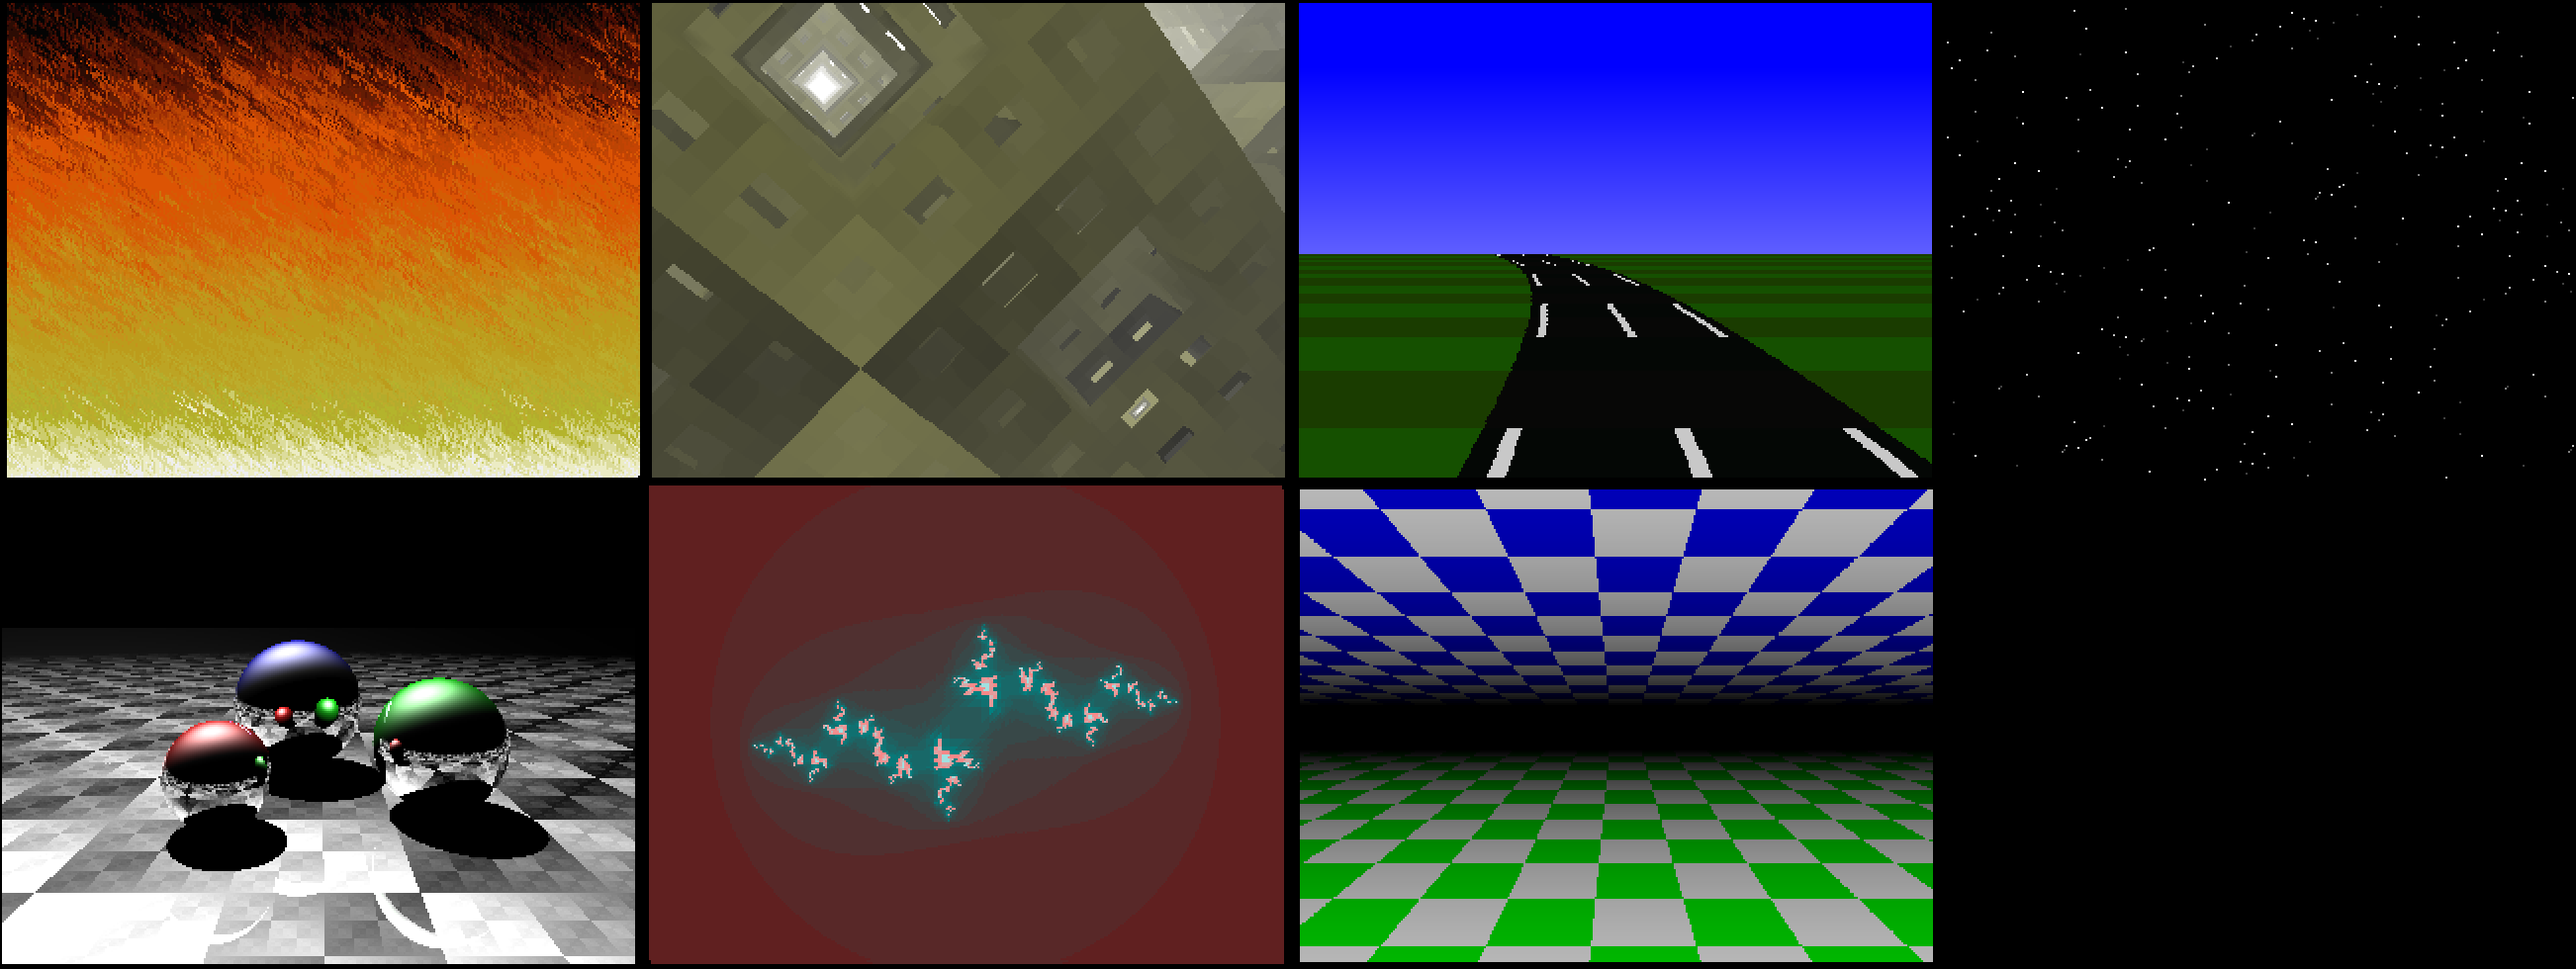
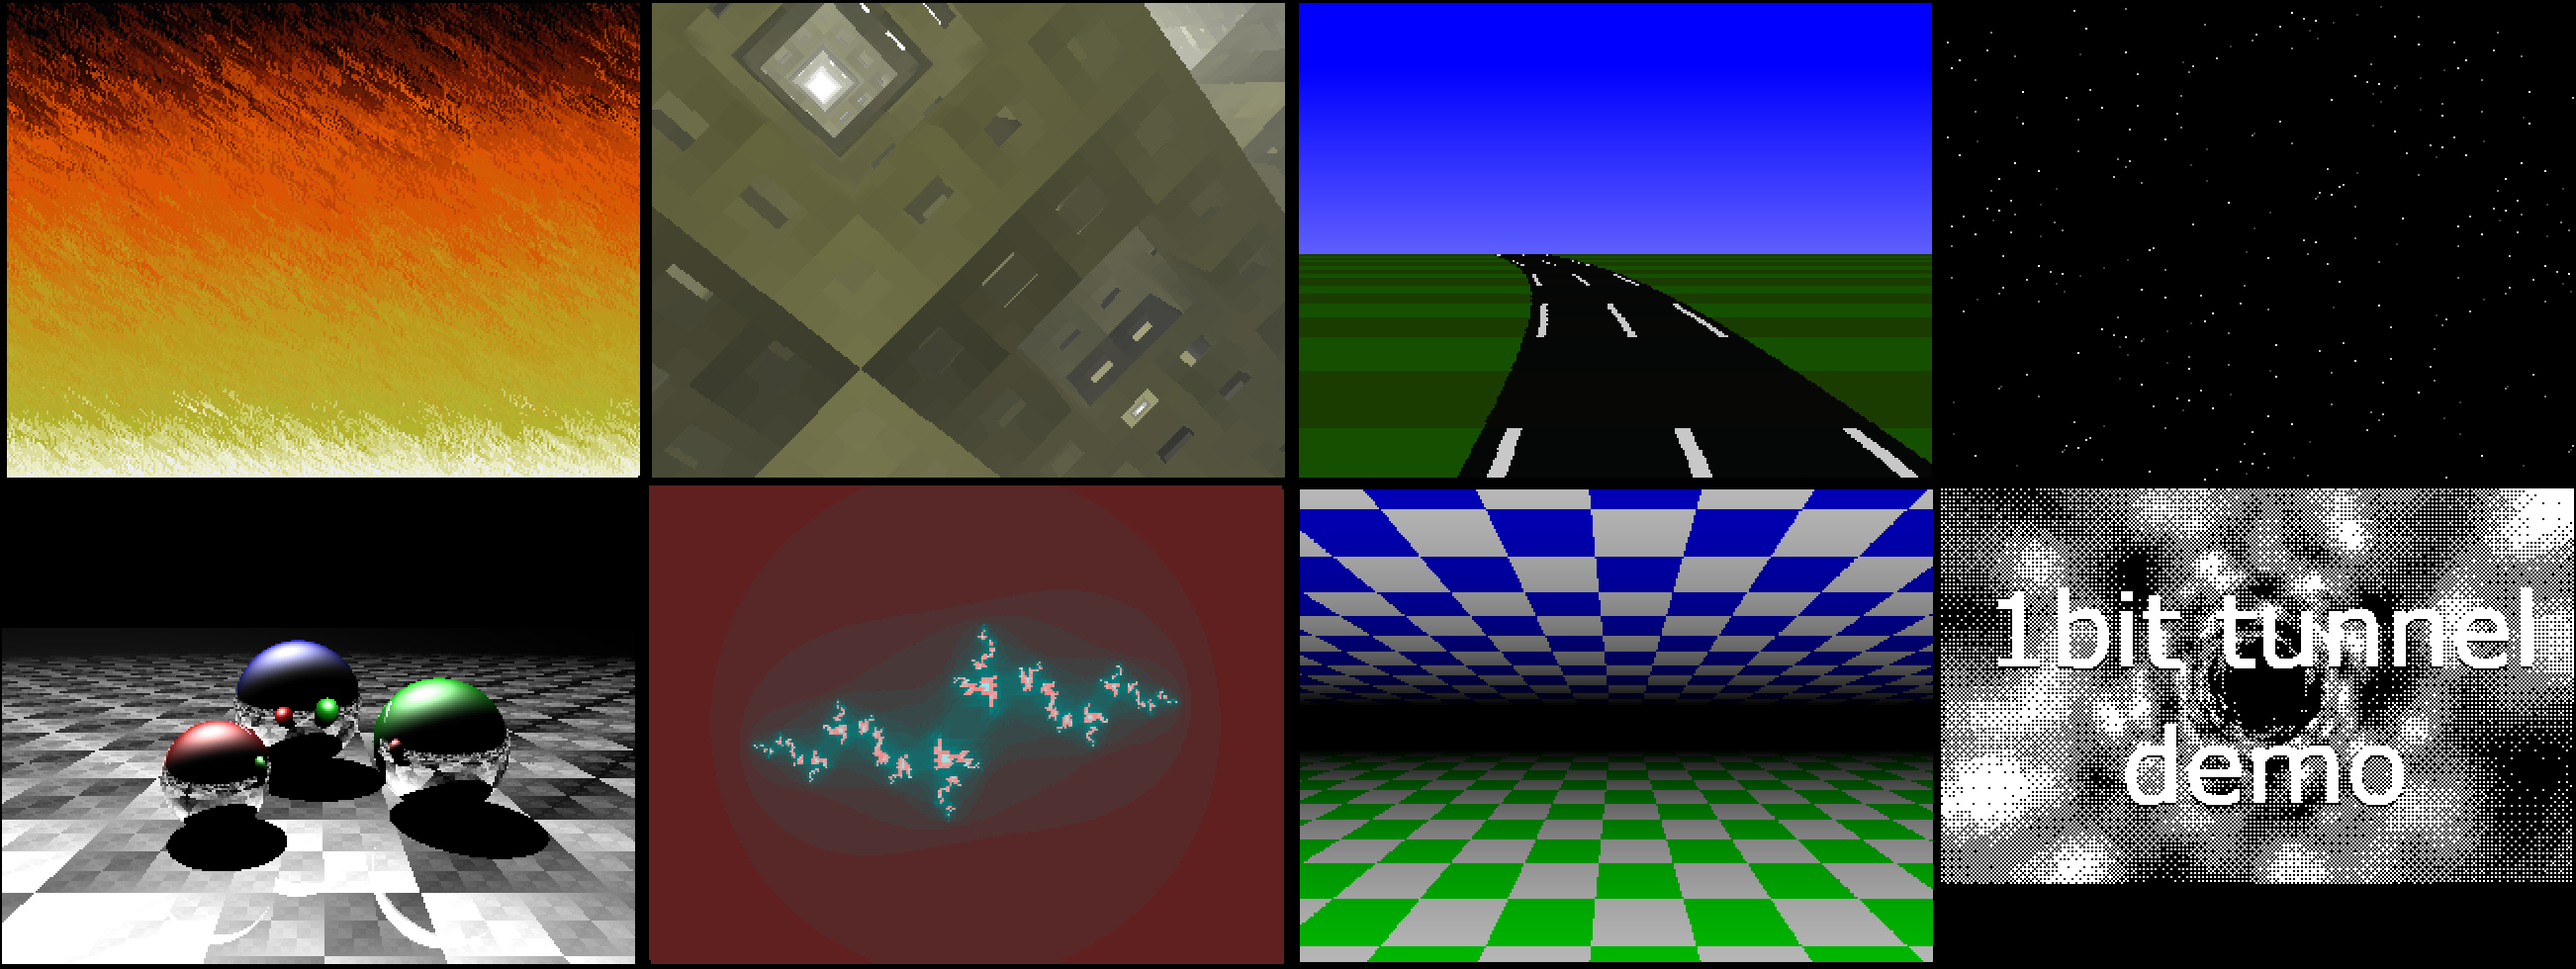
adding tunnel

Changed region(s): [[0.7465, 0.4898, 1.0, 0.9184]]

diff --git a/README.md b/README.md
@@ -7,7 +7,7 @@ These are fun graphics effects that I explored as I was developing [Silice](http
 
 This repository contains C version using a minimalistic framework. They should be very easy to port to run on your own SOC, to port to your own language, or to revisit in hardware (which was the most fun for me :) ).
 
-I list below each effect. __You can try them from your browser__, as they can all be compiled with Emscripten.
+I list below each effect. __You can try them from your browser__, as they can all be compiled with [Emscripten](https://emscripten.org/).
 
 I'll keep expending the list, and if there's interest may do a few deep dives to explain some of them.
 
@@ -27,6 +27,8 @@ I'll keep expending the list, and if there's interest may do a few deep dives to
 
 - [`Run flyover3d`](https://htmlpreview.github.io/?https://github.com/sylefeb/gfxcat/blob/main/runtime/gfxcat_flyover3d.html) [see code](flyover3d/flyover3d.c)
 
+- [`Run tunnel`](https://htmlpreview.github.io/?https://github.com/sylefeb/gfxcat/blob/main/runtime/gfxcat_tunnel.html) [see code](tunnel/tunnel.c)
+
 ## Credits
 
-I made all of these effects based on my (not so fresh) memories for my demo party days, but all are classics and have been shown many times before!
+I made all of these effects based on my (not so fresh) memories for my demoscene days, but all are classics and have been shown many times before!
